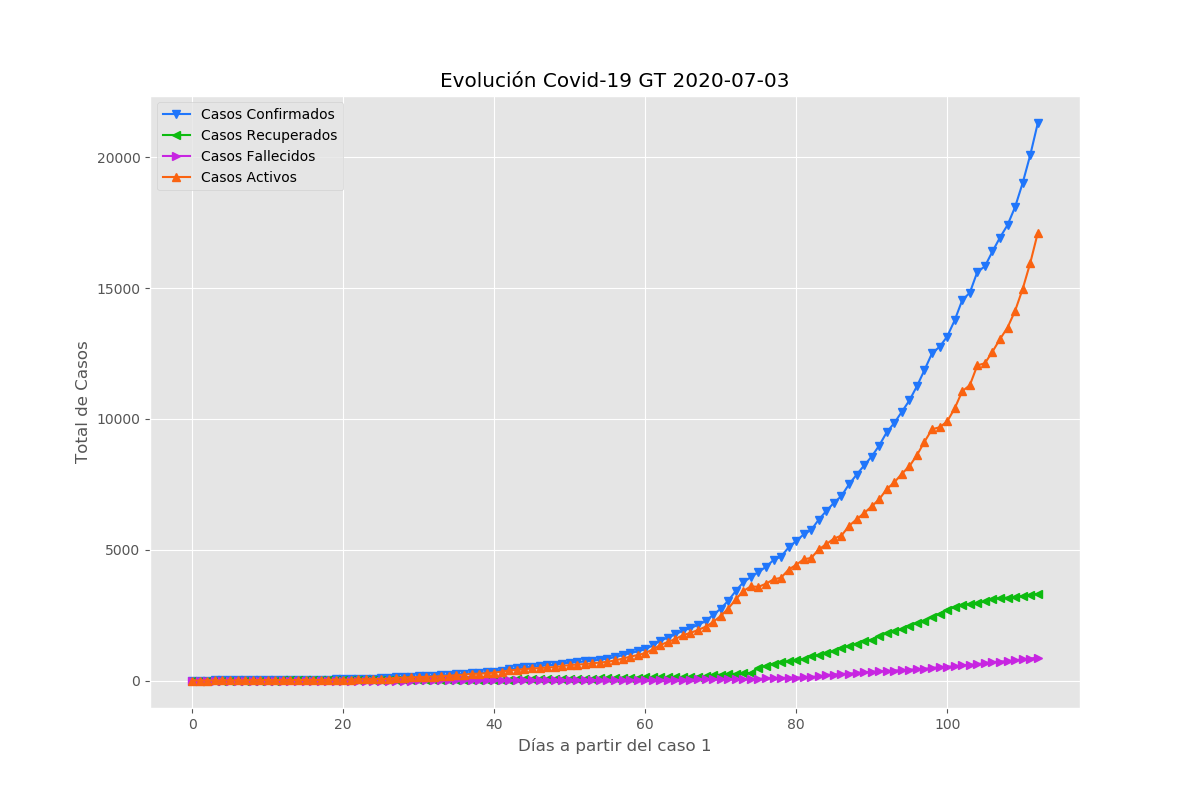
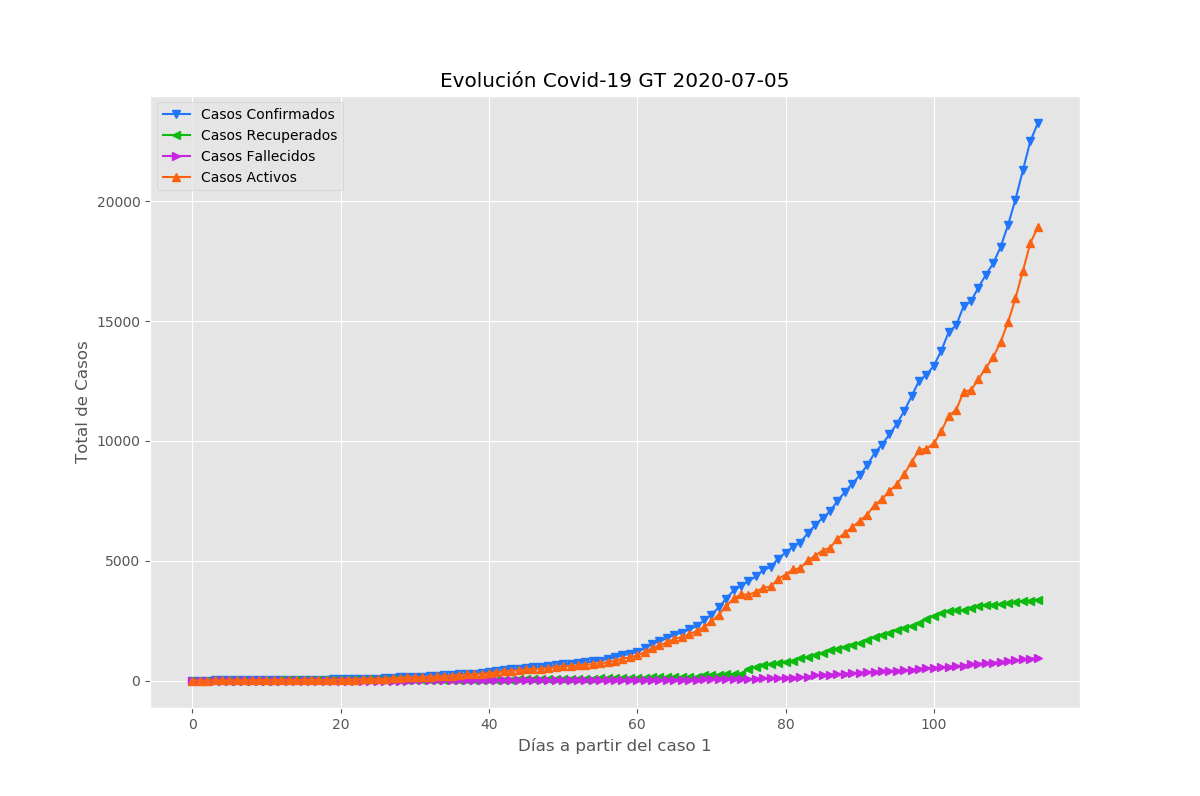
Actualizacion 06julio2020

diff --git a/_posts/2020-06-26-Estadisticos_Graficos.md b/_posts/2020-06-26-Estadisticos_Graficos.md
@@ -10,17 +10,17 @@ Como parte de este proyecto, originalmente se pensó en llevar registro de los d
 
 Estas gráficas son generadas a partir de los datos en [nuestro repositorio](https://github.com/ncovgt2020/ncovgt2020) y gracias al esfuerzo de [Hiram22](https://github.com/hiram22).
 
-# Estadísticos Relevantes, actualizados 03 junio 2020:
+# Estadísticos Relevantes, actualizados 06 junio 2020:
 
-confirmados:  23248
+confirmados:  23972
 
-recuperados:  3382
+recuperados:  3429
 
-fallecidos:  947
+fallecidos:  981
 
-activos:  18917
+activos:  19560
 
-pruebas realizadas:  96206
+pruebas realizadas:  97720
 
 # Gráficas
 
